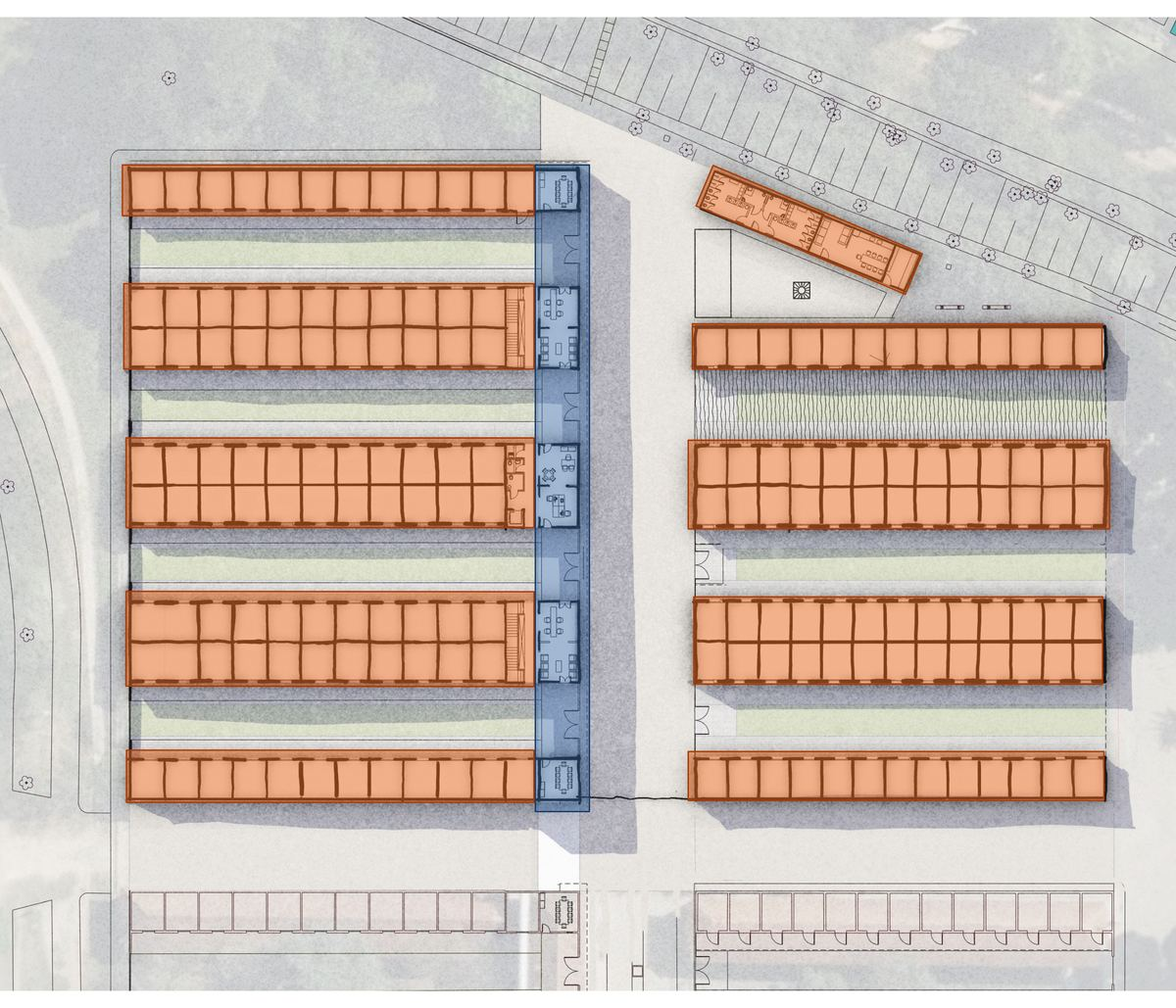
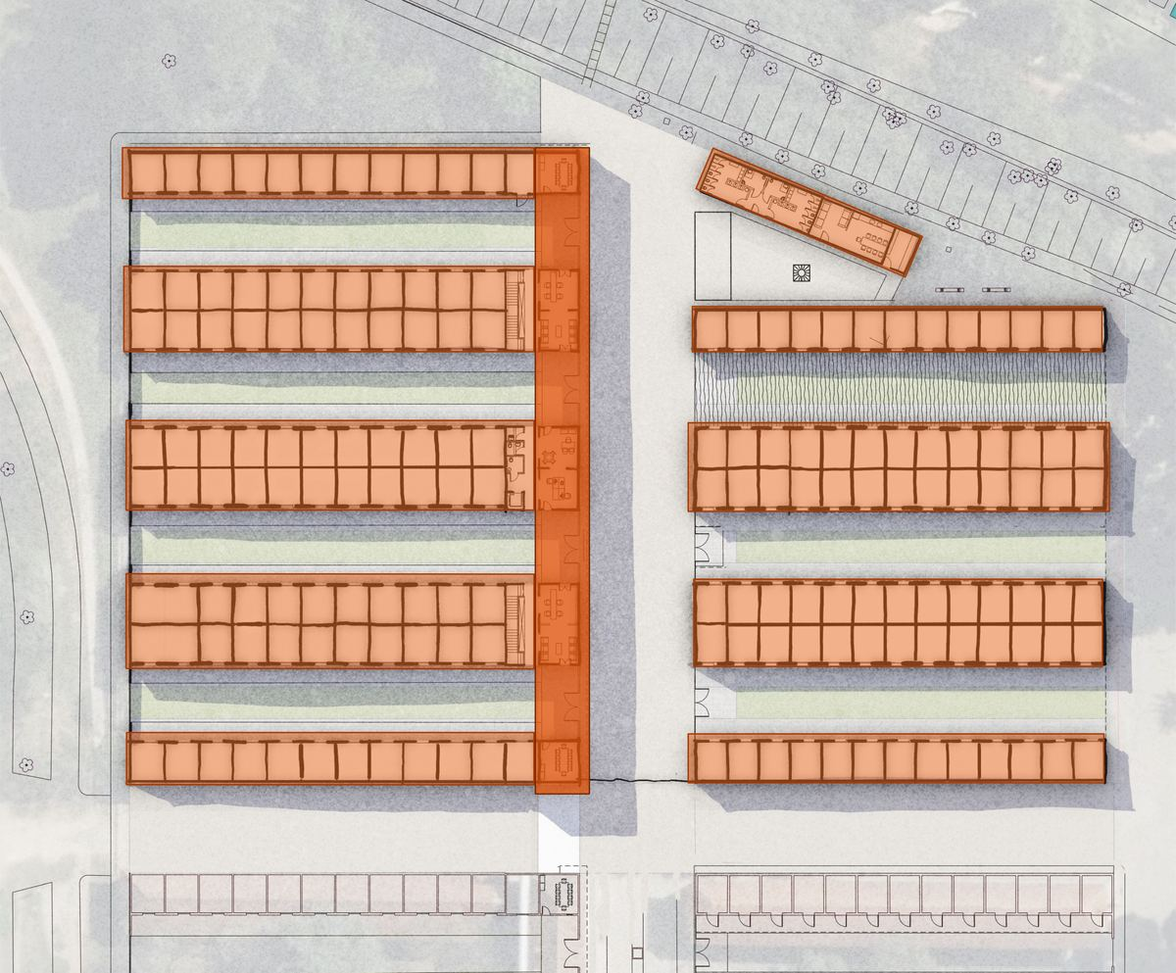
CAAB: um visor 3d so, confronto em duas etapas, capa renomeada
O earth-3d da localizacao SAI. Causa medida, nao suposta: com dois na
mesma peca o segundo nunca cria o `gmp-map-3d` — a Maps JS API carrega
uma vez por pagina e o segundo visor fica sem elemento, que e' o "o visor
3d nao abriu" que o Michel viu. O slide dos temas assume a identificacao
do lugar (kicker, nome, endereco e legenda do tombamento) e vira o unico.
O rotulo sobe quando ha temas: medido, ele terminava em 814 e a barra
comecava em 786.

Confronto, slide 15:
· entra em DUAS ETAPAS — TEA Oeste primeiro, depois a nossa proposta
· sai o rotulo "o projeto que nao avancou"; o lado que ficou sem rotulo
  mantem a linha reservada, senao as duas plantas deixam de comecar na
  mesma altura numa prancha que existe para comparar
· DOIS TOTAIS: a circulacao do Jockey e' descoberta e nao entra na area
  construida. `total` do gabarito passou a aceitar lista de pares, e so o
  ultimo leva o filete da marca
· sai a nota — o Michel explica verbalmente
· o veu de 4% do slot some quando ha planta: com `contain` ele virava
  duas faixas cinza ladeando o desenho
· segundo pavimento do Jockey passa de azul a laranja forte (#E0530A a
  78%), regerado do SVG, nao repintado no PNG

Capa: "TEA Chacara Jockey". A capa forca caixa baixa e comia a sigla —
`.sg` isenta o trecho, em qualquer gabarito.

Rabisco: a pastilha estava sem fundo porque `--tinta-85` nao existe (a
escala pula de 80 para 90) e o background invalido caiu fora. E a barra
[…]

diff --git a/centro-tea-butanta/apresentacao.html b/centro-tea-butanta/apresentacao.html
@@ -4,7 +4,7 @@
 <!-- robots.txt nao funciona em Pages de projeto: o buscador so le o da raiz
      do dominio. A meta tag e a unica protecao. Regra do runbook, 22/08. -->
 <meta name="robots" content="noindex, nofollow, noarchive">
-<title>centro de acolhimento ao autista</title>
+<title>TEA  Chácara Jockey</title>
 <!-- preconexão para os visores (earth-3d / modelo-3d): adianta DNS, TCP e
      TLS, nada mais. Só vale a pena em peça que tenha esses gabaritos —
      descomentar as três linhas nesse caso. Não é dependência: sem elas tudo
@@ -528,6 +528,10 @@ ol.trio .t{font-size:var(--fs-body);line-height:1.6}
 body.esc .conf .nm{color:var(--papel)}
 .conf .fig{flex:1;min-height:0;position:relative;border-radius:2px;
   background:color-mix(in srgb,var(--tinta) 4%,transparent)}
+/* ⚑ COM PLANTA, SEM FUNDO. O veu de 4% existe para dar corpo ao slot
+   vazio. Com a imagem dentro em `contain`, ele vira exatamente o que a
+   planta nao preenche — duas faixas cinza ladeando o desenho. */
+.conf .fig:has(img){background:none}
 .conf .fig img{position:absolute;inset:0;width:100%;height:100%;
   object-fit:contain;object-position:center}
 .conf .fig .vazio{position:absolute;inset:0;display:grid;place-items:center;
@@ -547,8 +551,15 @@ body.esc .conf .nm{color:var(--papel)}
   font-size:clamp(13px,1.08cqw,19px);color:var(--tinta);
   font-variant-numeric:tabular-nums;white-space:nowrap}
 body.esc .conf .qd .vv{color:var(--papel)}
-.conf .qd .tot{border-top:1.5px solid var(--primaria);border-bottom:0;
-  margin-top:clamp(2px,.3cqh,5px)}
+.conf .qd .tot{border-top:1px solid color-mix(in srgb,var(--tinta) 22%,transparent);
+  border-bottom:0;margin-top:clamp(2px,.3cqh,5px)}
+.conf .qd .tot.fecha{border-top:1.5px solid var(--primaria)}
+/* so o fechamento final vai para o vinho; o total intermediario fica no
+   peso do corpo, senao duas linhas disputam a mesma enfase. */
+.conf .qd .tot:not(.fecha) .rr{color:var(--soft);font-weight:500}
+.conf .qd .tot:not(.fecha) .vv{color:var(--tinta);font-weight:500;
+  font-size:clamp(13px,1.08cqw,19px)}
+body.esc .conf .qd .tot:not(.fecha) .vv{color:var(--papel)}
 .conf .qd .tot .rr{color:var(--primaria);font-weight:600}
 .conf .qd .tot .vv{color:var(--primaria);font-weight:600;
   font-size:clamp(15px,1.32cqw,24px)}
@@ -1050,6 +1061,13 @@ body.em-logo .chrome.topo .secao{display:inline}
    o titulo da prancha. Fechado o painel, o rotulo volta. */
 .g-earth-3d.com-painel .rotulo{opacity:0;pointer-events:none;
   transition:opacity .25s ease}
+/* ⚑ COM TEMAS, O ROTULO SOBE. Os dois nasceram no mesmo canto inferior
+   esquerdo e com o rotulo cheio — kicker, titulo, endereco e legenda — a
+   caixa descia por cima dos botoes. Aqui ele reserva a faixa da barra.
+   03/11/2026, depois de medir: rotulo terminava em 814 e a barra comecava
+   em 786 numa tela de 900. */
+.g-earth-3d:has(.temas) .rotulo{
+  bottom:calc(var(--bot) + clamp(4px,1.4cqh,22px) + clamp(50px,6.8cqh,88px))}
 /* O convite do veu atravessa o meio da cena e compete com o painel aberto.
    Some a opacidade mas NAO o pointer-events: o veu continua sendo quem
    captura o primeiro clique e liga `girando`. */
@@ -3440,10 +3458,15 @@ body.em-imagem .nav{-webkit-backdrop-filter:none;backdrop-filter:none}
 #mscapta{position:absolute;inset:0;z-index:40;display:none;cursor:crosshair;
   touch-action:none}
 body.rabisca #mscapta{display:block}
-#msferr{position:absolute;z-index:42;left:50%;transform:translateX(-50%);
-  bottom:calc(var(--bot) + clamp(8px,1.5cqh,24px));display:none;
+/* ⚑ A BARRA MORA NA FAIXA DO RODAPE, nao acima dela. Flutuando sobre a
+   prancha ela cobria conteudo — no `confronto` caiu em cima do quadro de
+   areas. A faixa `--bot` ja' e' territorio de controle, e o meio dela esta
+   livre: o nome do projeto fica a esquerda e a navegacao a direita.
+   `bottom` na metade da faixa + `translateY(50%)` centra a pastilha nela. */
+#msferr{position:absolute;z-index:42;left:50%;
+  bottom:calc(var(--bot) / 2);transform:translate(-50%,50%);display:none;
   align-items:center;gap:clamp(3px,.42cqw,7px);
-  background:var(--tinta-85);border-radius:999px;
+  background:var(--tinta-80);border-radius:999px;
   padding:clamp(4px,.45cqw,8px) clamp(6px,.6cqw,11px);
   box-shadow:0 3px 18px var(--tinta-35)}
 body.rabisca #msferr{display:flex}
@@ -3470,6 +3493,11 @@ body.rabisca #msrab{opacity:1;background:var(--papel-25)}
 #msrab svg{width:54%;height:54%;fill:none;stroke:currentColor;stroke-width:1.9;
   stroke-linecap:round;stroke-linejoin:round}
 @media (prefers-reduced-motion:reduce){#msferr button{transition:none}}
+
+/* ⚑ SIGLA DENTRO DE TITULO EM CAIXA BAIXA. A capa e alguns kickers forcam
+   `text-transform`, o que e' certo para palavra e errado para sigla: "TEA"
+   virava "tea". `.sg` isenta o trecho, e vale em qualquer gabarito. */
+.sg{text-transform:none !important}
 </style></head><body>
 <!-- #moldura mede a ÁREA SEGURA da tela, nunca a tela bruta: é o que impede
      o notch e a Dynamic Island de comerem canto de prancha.
@@ -4132,7 +4160,7 @@ const DECK=[
 {"g":"meia","sangra":1,"mosaico":1,"inst":1,"imgs":["img/obra-11.jpg","img/obra-14.jpg","img/obra-16.jpg","img/obra-17.jpg","img/obra-18.jpg","img/obra-21.jpg","img/obra-23.jpg","img/obra-28.jpg","img/obra-30.jpg","img/obra-32.jpg","img/obra-34.jpg","img/obra-40.jpg","img/obra-47.jpg","img/obra-49.jpg","img/obra-50.jpg","img/obra-55.jpg","img/obra-56.jpg","img/obra-57.jpg","img/obra-58.jpg","img/obra-59.jpg","img/obra-66.jpg","img/obra-67.jpg","img/obra-82.jpg"],"estados":[{"kick":"um pouco sobre o estúdio Sarasá","t":"setenta anos de ofício","serif":1,"lead":"Uma casa de ofício fundada em 1956, no Ipiranga, por um azulejista catalão — hoje na terceira geração.","manchete":1,"linha":[["1939","Nasce <mark>Gerardo Martin Sarasá<\/mark> em Arbúcias, Girona, entre o fim da Guerra Civil Espanhola e o começo da Segunda Guerra."],["1956","Chega ao Brasil e funda o <mark>Atelier Artístico Gerardo Sarasá<\/mark>, com especialidade em azulejaria e vitral."],["1970","Passa aos projetos de <mark>conservação e restauro<\/mark> do patrimônio edificado."],["1980","Antonio Luís e Marcelo Sarasá Martin assumem a casa, hoje na <mark>terceira geração<\/mark>."],["2002","No Mosteiro da Luz, é concebida a <mark>Zeladoria do Patrimônio Cultural<\/mark> como disciplina autônoma — conceituada em 2012 e registrada na Biblioteca Nacional em 2017."],["2022","É fundado o <mark>Instituto Sarasá de Arte, Cultura e Cidadania<\/mark>."]],"lk":1,"botao":{"t":"visite o nosso site","url":"https://estudiosarasa.com.br"}}]},
 {"g":"meia","sangra":1,"imgs":["img/sarasa-vitral.jpg","img/sarasa-ipiranga.jpg","img/sarasa-cine-sao-luiz.jpg","img/sarasa-mibio.jpg","img/sarasa-estacao-luz.jpg","img/sarasa-campos-novos.jpg","img/sarasa-olinda.jpg","img/sarasa-itu.jpg","img/sarasa-casa-artesao.jpg","img/sarasa-barra-grande.jpg"],"legs":["Vitral · conservação e restauro","Museu do Ipiranga · São Paulo, SP","Cine São Luiz · Recife, PE","MiBIO, Museu Interativo da Biodiversidade · Campo Grande, MS","Estação da Luz · São Paulo, SP","Fazenda Campos Novos · Cabo Frio, RJ","Sociedade Beneficente de Artistas e Operários de Olinda · Olinda, PE","Museu de Energia de Itu · Itu, SP","Casa do Artesão · Campo Grande, MS","Fortaleza da Barra Grande · Guarujá, SP"],"estados":[{"kick":"o que fazemos","t":"serviços","cap":"<p><b>Projetos<\/b>Conservação e restauro · adequação de uso · expografia.<\/p><p><b>Investigação<\/b>Prospecções · pesquisa técnico-científica · consultoria.<\/p><p><b>Ofícios<\/b>Vitral · azulejaria · argamassa e pintura tradicionais · modelação · marcenaria · cantaria.<\/p><p><b>Execução<\/b>Intervenções de conservação e restauro.<\/p><p><b>Transmissão<\/b>Oficinas · educação patrimonial · zeladoria.<\/p>","servicos":1,"serif":1,"lead":"Cinco frentes, da prospecção ao ofício executado na obra."}],"espelho":1},
 {"g":"viva","src":"../modulos/mapa-atuacao-sarasa.html","recarrega":1,"semtopo":1,"alt":"Mapa de atuação do Estúdio Sarasá: 35 imóveis em São Paulo e obras em nove estados","h2":"onde atuamos","cap":"abrindo o mapa de atuação"},
-{"g":"capa","capa":1,"esc":1,"t":"centro de acolhimento<br>ao autista","sub":"Reuso de conjunto tombado para o Centro Municipal da Pessoa com TEA.","metas":[["cliente","—"],["etapa","estudo preliminar"],["versão","estrutura R00"]],"kick":"BUTANTÃ · SÃO PAULO"},
+{"g":"capa","capa":1,"esc":1,"t":"<span class=\"sg\">TEA<\/span><br>Chácara Jockey","sub":"Reuso de conjunto tombado para o Centro Municipal da Pessoa com TEA.","metas":[["cliente","—"],["etapa","estudo preliminar"],["versão","estrutura R00"]],"kick":"BUTANTÃ · SÃO PAULO"},
 {"g":"sumario","t":"índice da apresentação","itens":[["01","introdução","Três círculos: o equipamento, o desejável e a história do lugar."],["02","o edifício existente","Localização, qualidades, desafios, tombamento — e a pergunta central."],["03","a proposta de intervenção","Vocação, fluxos, setorização e demolição, camada por camada."],["04","números","Áreas, superfícies de intervenção e ordem de grandeza."]]},
 {"g":"divisor","div":1,"terra":1,"fundo":1,"sec":"introdução","dn":"01","dt":"introdução","ds":"A proposta nasce no encontro de três coisas. Antes de mostrar o que está no meio, é preciso desenhar os três círculos."},
 {"g":"conceitos","kick":"o método do argumento","t":"três conceitos","itens":[{"q":"o equipamento","x":"O que a SMPED faz, o que já construiu e o que o termo de referência pede.","slot":"o Centro TEA já construído"},{"q":"o desejável","x":"O que a arquitetura sabe sobre espaço para pessoas no espectro.","slot":"referências projetuais"},{"q":"o patrimônio histórico","x":"O que este conjunto foi, e o papel que desempenhou na cidade.","slot":"imagem histórica do conjunto"}]},
@@ -4140,12 +4168,11 @@ const DECK=[
 {"g":"lista","largo":1,"kick":"círculo 02","t":"o que o espaço faz por quem é atendido","itens":[["01","<b>Gradiente sensorial.<\/b> O edifício se organiza por nível de estímulo, não por função administrativa."],["02","<b>Transição.<\/b> Entre o alto e o baixo estímulo existe um espaço que recalibra — não se passa de um ao outro por uma porta."],["03","<b>Refúgio.<\/b> Lugares de retirada distribuídos, ajustáveis por quem os usa."],["04","<b>Percurso previsível.<\/b> Sequência legível, sem bifurcação e sem retorno."],["05","<b>Sem bolha.<\/b> A escala inteira de estímulo dentro do edifício, para que se transite por ela."]]},
 {"g":"tempo","kick":"o lugar no tempo","cobre":640,"de":1925,"ate":2026,"items":[{"ano":"1930","src":"img/tempo-1930.jpg","ficha":"Levantamento Sara Brasil · 1930 · carta","t":"Sara Brasil: o sítio antes de tudo","cap":"Chácara rural na divisa do município. O córrego Charco Grande corta o terreno e a mata ocupa o que hoje é o parque. Não há uma construção sequer no perímetro."},{"ano":"1940","x":1940,"ficha":"Foto aérea · 1940 · a baixar","t":"Levantamento a incorporar","vazio":"Foto aérea 1940 · quadrícula FM5-019 · a baixar no GeoSampa"},{"ano":"1954","x":1954,"ficha":"Foto aérea · 1954 · a baixar","t":"Levantamento a incorporar","vazio":"Foto aérea 1954 · quadrícula FX03-173 · a baixar no GeoSampa"},{"ano":"s/d","x":1962,"src":"img/tempo-vasp.jpg","ficha":"Carta Vasp-Cruzeiro · <span class=\"pend\">sem data no metadado — confirmar no DPH<\/span>","t":"Vasp-Cruzeiro: a era hípica desenhada","cap":"A pista oval de treino e as duas fileiras de cocheiras aparecem com todos os módulos. É a única peça que registra o conjunto em pleno funcionamento — e a borda esquerda está cortada no fim do mosaico."},{"ano":"1988","src":"img/tempo-1988.jpg","ficha":"Folhas do Livro da Vegetação · 1988 · carta","t":"Livro da Vegetação: o miolo limpo","cap":"A carta registra a massa verde apenas no perímetro do conjunto. Entre os dois agrupamentos de edificações não há arborização mapeada. É o ponto de partida do argumento."},{"ano":"1996","x":1996,"ficha":"Foto aérea · 1994/1996 · a baixar","t":"Levantamento a incorporar","vazio":"Foto aérea 1994/1996 · a baixar no GeoSampa"},{"ano":"2001","x":2001,"ficha":"Foto aérea · 2000/2001 · a baixar","t":"Levantamento a incorporar","vazio":"Fotos aéreas 2000 e 2001 · a baixar no GeoSampa"},{"ano":"2004","src":"img/tempo-2004.jpg","ficha":"Ortofoto MDC · 2004 · 1:1.000","t":"A alameda ainda aberta","cap":"Dezesseis anos depois, a alameda central entre os dois agrupamentos continua livre. Telhados íntegros, perímetro arborizado, miolo sem nada."},{"ano":"2017","src":"img/tempo-2017.jpg","ficha":"Ortofoto PMD · 2017","t":"As primeiras árvores no miolo","cap":"Aqui começam a aparecer, esparsas, as árvores entre as fileiras. Nenhuma plantada por projeto: são espontâneas, nascidas da ausência de manejo depois do fim da atividade hípica."},{"ano":"2020","src":"img/tempo-2020.jpg","ficha":"Ortofoto · 2020 · 10 cm/px","t":"O miolo tomado","cap":"Em três anos a alameda fecha. As copas encostam nos telhados e passam a representar risco direto sobre o bem tombado. É o estado que o projeto encontra."}]},
 {"g":"divisor","div":2,"terra":1,"fundo":1,"sec":"o edifício","dn":"02","dt":"o edifício existente","ds":"Qualidades e desafios de um conjunto que já existe."},
-{"g":"earth-3d","lat":-23.599136,"lng":-46.744936,"alt":760,"kick":"o lugar","h2":"o Parque Chácara do Jockey","lead":"Rua Santa Crescência · Ferreira, Butantã · São Paulo","cap":"O conjunto da antiga sede do Jockey Club dentro do parque público. Tombado pela Resolução CONPRESP 53/2018 em três conjuntos — cavalariças, alojamento dos cavalariços e casa da administração. A massa arbórea que se vê é o dado que condiciona a implantação."},
 {"g":"cheia","src":"","h2":"localização","cap":"Planta do parque, com norte. Zoom na edificação existente no slide seguinte.","claro":1},
 {"g":"cheia","src":"","h2":"o conjunto edificado","cap":"Os braços longilíneos do conjunto preexistente.","claro":1},
-{"g":"earth-3d","lat":-23.599136,"lng":-46.744936,"alt":760,"compacto":1,"kick":"o lugar, de perto","h2":"o que este conjunto oferece","lead":"Três leituras sobre o mesmo lugar.","temas":[{"bt":"qualidades e oportunidades","t":"qualidades e oportunidades","itens":[["01","<b>Sequência pronta.<\/b> Os braços longilíneos são percurso linear e previsível, sem bifurcação."],["02","<b>Compartimentação pronta.<\/b> A malha de baias está na escala do atendimento em grupo pequeno."],["03","<b>Arvoredo maduro.<\/b> Estímulo natural é regulador, e não se planta em dois anos."],["04","<b>Endereço com história.<\/b> Um bem ocioso volta à vida pública."]]},{"bt":"desafios","t":"desafios","itens":[["01","<b>Geometria restritiva.<\/b> Espaços estreitos e alongados; na origem, longos corredores. Condiciona tudo que peça vão livre."],["02","<b>Arborização em posição de risco.<\/b> Exemplares encostados no beiral, com galhos sobre a estrutura do telhado. Risco de dano ao bem e de acidente."],["03","<b>Acústica.<\/b> Pé-direito alto, superfície dura e vão contínuo produzem reverberação longa — o risco sensorial mais sério do conjunto."]]},{"bt":"o que o tombamento permite","t":"a proteção como liberdade","itens":[["01","<b>A proteção recai sobre as fachadas.<\/b> As características arquitetônicas externas são o objeto do tombamento."],["02","<b>O interior está livre de obrigação de preservação.<\/b> A reorganização interna é possível — e necessária para gerar os salões amplos."],["03","<b>A área livre do parque dispensa análise prévia.<\/b> O que exige vão grande encontra lugar sem passar pelo rito."],["04","<b>O que se altera deixa testemunho.<\/b> A própria resolução exige preservar o traço do elemento original — é a base da intervenção legível."]]}]},
+{"g":"earth-3d","lat":-23.599136,"lng":-46.744936,"alt":760,"compacto":1,"kick":"o lugar","h2":"o Parque Chácara do Jockey","lead":"Rua Santa Crescência · Ferreira, Butantã · São Paulo","temas":[{"bt":"qualidades e oportunidades","t":"qualidades e oportunidades","itens":[["01","<b>Sequência pronta.<\/b> Os braços longilíneos são percurso linear e previsível, sem bifurcação."],["02","<b>Compartimentação pronta.<\/b> A malha de baias está na escala do atendimento em grupo pequeno."],["03","<b>Arvoredo maduro.<\/b> Estímulo natural é regulador, e não se planta em dois anos."],["04","<b>Endereço com história.<\/b> Um bem ocioso volta à vida pública."]]},{"bt":"desafios","t":"desafios","itens":[["01","<b>Geometria restritiva.<\/b> Espaços estreitos e alongados; na origem, longos corredores. Condiciona tudo que peça vão livre."],["02","<b>Arborização em posição de risco.<\/b> Exemplares encostados no beiral, com galhos sobre a estrutura do telhado. Risco de dano ao bem e de acidente."],["03","<b>Acústica.<\/b> Pé-direito alto, superfície dura e vão contínuo produzem reverberação longa — o risco sensorial mais sério do conjunto."]]},{"bt":"o que o tombamento permite","t":"a proteção como liberdade","itens":[["01","<b>A proteção recai sobre as fachadas.<\/b> As características arquitetônicas externas são o objeto do tombamento."],["02","<b>O interior está livre de obrigação de preservação.<\/b> A reorganização interna é possível — e necessária para gerar os salões amplos."],["03","<b>A área livre do parque dispensa análise prévia.<\/b> O que exige vão grande encontra lugar sem passar pelo rito."],["04","<b>O que se altera deixa testemunho.<\/b> A própria resolução exige preservar o traço do elemento original — é a base da intervenção legível."]]}],"cap":"Conjunto da antiga sede do Jockey Club, dentro do parque público. Tombado pela Resolução CONPRESP 53/2018 em três conjuntos."},
 {"g":"frase","esc":1,"kick":"a pergunta central","t":"este programa cabe<br>neste lugar?"},
-{"g":"confronto","kick":"a resposta, em área","t":"o mesmo programa, dois lugares","lados":[{"rot":"o projeto que não avançou","nm":"TEA Oeste · Butantã","src":"img/implantacao-tea-oeste.jpg","alt":"Implantação do TEA Oeste, com as áreas úteis destacadas","linhas":[["ambientes","2.556,55 m²"],["circulação","1.543,24 m²"]],"total":["área construída","4.099,79 m²"]},{"rot":"a nossa proposta","nm":"Chácara do Jockey","src":"img/implantacao-jockey.jpg","linhas":[["ambientes","3.311,07 m²"],["circulação","3.651,62 m²"]],"total":["área construída","6.962,69 m²"],"alt":"Implantação da proposta na Chácara do Jockey, com as áreas úteis e o segundo pavimento destacados"}],"nota":"O conjunto tombado entrega <b>6.962,69 m²<\/b> — acima dos 4.684 m² que o termo de referência pede. A circulação pesa porque os corredores <b>já existem<\/b>: são os braços longilíneos do conjunto, não metros projetados. E num programa TEA o corredor legível é recurso de orientação, não sobra."},
+{"g":"confronto","kick":"a resposta, em área","t":"o mesmo programa, dois lugares","lados":[{"nm":"TEA Oeste · Butantã","src":"img/implantacao-tea-oeste.jpg","alt":"Implantação do TEA Oeste, com as áreas úteis destacadas","linhas":[["ambientes","2.556,55 m²"],["circulação coberta","1.543,24 m²"]],"total":[["total","4.099,79 m²"],["total coberto","4.099,79 m²"]]},{"rot":"a nossa proposta","nm":"Chácara do Jockey","src":"img/implantacao-jockey.jpg","linhas":[["ambientes","3.311,07 m²"],["circulação descoberta","3.651,62 m²"]],"total":[["total","6.962,69 m²"],["total coberto","3.311,07 m²"]],"alt":"Implantação da proposta na Chácara do Jockey, com as áreas úteis e o segundo pavimento destacados em laranja"}],"etapas":1},
 {"g":"lista","largo":1,"kick":"a resposta","t":"cabe, e cumpre","itens":[["01","<b>Cabe em área.<\/b> O programa útil do modelo entra no conjunto existente."],["02","<b>Cumpre todos os papéis.<\/b> Atendimento, cultura, esporte, autonomia e acolhimento de famílias."],["03","<b>E ganha o que terreno vazio não dá.<\/b> Arvoredo maduro, escala construída e história."]]},
 {"g":"divisor","div":3,"terra":1,"fundo":1,"sec":"a proposta","dn":"03","dt":"a proposta de intervenção","ds":"A planta, camada por camada: do que o conjunto é hoje ao que ele passa a ser."},
 {"g":"sequencia","kick":"a proposta, passo a passo","items":[{"src":"img/evo-01.jpg","t":"situação atual","cap":""},{"src":"img/evo-02.jpg","t":"conflito de circulação dos vestiários","cap":""},{"src":"img/evo-03.jpg","t":"novo vestiário","cap":""},{"src":"img/evo-04.jpg","t":"análise da circulação","cap":""},{"src":"img/evo-05.jpg","t":"análise da circulação","cap":""},{"src":"img/evo-06.jpg","t":"análise da circulação","cap":""},{"src":"img/evo-07.jpg","t":"análise da circulação","cap":""},{"src":"img/evo-08.jpg","t":"acessos","cap":""},{"src":"img/evo-09.jpg","t":"cobertura de ligação","cap":"Três funções numa peça só: <b>marquise<\/b> para embarque e desembarque, <b>receptivo<\/b>, e <b>circulação coberta<\/b> entre os volumes."},{"src":"img/evo-10.jpg","t":"paisagismo","cap":""},{"src":"img/evo-11.jpg","t":"demolições","cap":"Abrem as novas circulações e os salões amplos."},{"src":"img/evo-12.jpg","t":"planta proposta","cap":""},{"src":"img/evo-13.jpg","t":"setor de atendimento","cap":"","cores":[["#B080F0","atendimento e atividades TEA"]]},{"src":"img/evo-14.jpg","t":"setor administrativo e de apoio","cap":"","cores":[["#B080F0","atendimento e atividades TEA"],["#E08030","administrativo e funcionários"],["#905040","apoio e serviços"]]},{"src":"img/evo-15.jpg","t":"setor de eventos e acolhimento","cap":"","cores":[["#B080F0","atendimento e atividades TEA"],["#E08030","administrativo e funcionários"],["#905040","apoio e serviços"],["#90A0C8","eventos: convenções e exposições"],["#A0D050","acolhimento de familiares"]]},{"src":"img/evo-16.jpg","t":"planta proposta","cap":"","cores":[["#B080F0","atendimento e atividades TEA"],["#E08030","administrativo e funcionários"],["#905040","apoio e serviços"],["#90A0C8","eventos: convenções e exposições"],["#A0D050","acolhimento de familiares"]]}],"sangra":1},
@@ -4332,16 +4359,27 @@ function tpl(s){
   /* `confronto`: duas implantacoes lado a lado, cada uma com rotulo, nome,
      figura e o quadro de areas. Ver o bloco CONFRONTO no CSS. */
   if(s.g==='confronto'){
-    const lados=(s.lados||[]).map(l=>{
+    const temRot=(s.lados||[]).some(l=>l.rot);
+    const lados=(s.lados||[]).map((l,i)=>{
       const fig = l.src
         ? `<img src="${IMG[l.src]||l.src}" alt="${(l.alt||l.nm||'').replace(/"/g,'&quot;')}">`
         : `<div class="vazio">${l.slot||'implantação a entrar'}</div>`;
+      /* ⚑ `total` aceita UM par ou uma LISTA de pares. 03/11/2026: a
+         circulacao do Jockey e' descoberta e nao entra na area construida,
+         entao o quadro passou a precisar de dois fechamentos — total e
+         total coberto — e so o ULTIMO leva o filete da marca. */
+      const tts = (l.total && Array.isArray(l.total[0])) ? l.total
+                : (l.total ? [l.total] : []);
       const qd = (l.linhas||[]).map(([r,v])=>
             `<div><span class="rr">${r}</span><span class="vv">${RS(v)}</span></div>`).join('')
-        + (l.total?`<div class="tot"><span class="rr">${l.total[0]}</span>`
-                   +`<span class="vv">${RS(l.total[1])}</span></div>`:'');
-      return `<div class="lado">`
-        + (l.rot?`<div class="rot">${l.rot}</div>`:'')
+        + tts.map((x,n)=>`<div class="tot${n===tts.length-1?' fecha':''}">`
+            +`<span class="rr">${x[0]}</span><span class="vv">${RS(x[1])}</span></div>`).join('');
+      return `<div class="lado${(s.etapas&&i)?' passo':''}">`
+        /* ⚑ SE UM LADO TEM ROTULO, TODOS RESERVAM A LINHA. Sem isso, tirar
+           o rotulo de um dos lados sobe o nome daquele lado e as duas
+           plantas deixam de comecar na mesma altura — numa prancha que
+           existe para comparar, desalinhar e' mentir. */
+        + (temRot?`<div class="rot">${l.rot||'&nbsp;'}</div>`:'')
         + (l.nm?`<div class="nm">${RS(l.nm)}</div>`:'')
         + `<figure class="fig">${fig}</figure>`
         + (qd?`<div class="qd">${qd}</div>`:'')

diff --git a/esqueleto/deck-esqueleto.html b/esqueleto/deck-esqueleto.html
@@ -512,6 +512,10 @@ ol.trio .t{font-size:var(--fs-body);line-height:1.6}
 body.esc .conf .nm{color:var(--papel)}
 .conf .fig{flex:1;min-height:0;position:relative;border-radius:2px;
   background:color-mix(in srgb,var(--tinta) 4%,transparent)}
+/* ⚑ COM PLANTA, SEM FUNDO. O veu de 4% existe para dar corpo ao slot
+   vazio. Com a imagem dentro em `contain`, ele vira exatamente o que a
+   planta nao preenche — duas faixas cinza ladeando o desenho. */
+.conf .fig:has(img){background:none}
 .conf .fig img{position:absolute;inset:0;width:100%;height:100%;
   object-fit:contain;object-position:center}
 .conf .fig .vazio{position:absolute;inset:0;display:grid;place-items:center;
@@ -531,8 +535,15 @@ body.esc .conf .nm{color:var(--papel)}
   font-size:clamp(13px,1.08cqw,19px);color:var(--tinta);
   font-variant-numeric:tabular-nums;white-space:nowrap}
 body.esc .conf .qd .vv{color:var(--papel)}
-.conf .qd .tot{border-top:1.5px solid var(--primaria);border-bottom:0;
-  margin-top:clamp(2px,.3cqh,5px)}
+.conf .qd .tot{border-top:1px solid color-mix(in srgb,var(--tinta) 22%,transparent);
+  border-bottom:0;margin-top:clamp(2px,.3cqh,5px)}
+.conf .qd .tot.fecha{border-top:1.5px solid var(--primaria)}
+/* so o fechamento final vai para o vinho; o total intermediario fica no
+   peso do corpo, senao duas linhas disputam a mesma enfase. */
+.conf .qd .tot:not(.fecha) .rr{color:var(--soft);font-weight:500}
+.conf .qd .tot:not(.fecha) .vv{color:var(--tinta);font-weight:500;
+  font-size:clamp(13px,1.08cqw,19px)}
+body.esc .conf .qd .tot:not(.fecha) .vv{color:var(--papel)}
 .conf .qd .tot .rr{color:var(--primaria);font-weight:600}
 .conf .qd .tot .vv{color:var(--primaria);font-weight:600;
   font-size:clamp(15px,1.32cqw,24px)}
@@ -1034,6 +1045,13 @@ body.em-logo .chrome.topo .secao{display:inline}
    o titulo da prancha. Fechado o painel, o rotulo volta. */
 .g-earth-3d.com-painel .rotulo{opacity:0;pointer-events:none;
   transition:opacity .25s ease}
+/* ⚑ COM TEMAS, O ROTULO SOBE. Os dois nasceram no mesmo canto inferior
+   esquerdo e com o rotulo cheio — kicker, titulo, endereco e legenda — a
+   caixa descia por cima dos botoes. Aqui ele reserva a faixa da barra.
+   03/11/2026, depois de medir: rotulo terminava em 814 e a barra comecava
+   em 786 numa tela de 900. */
+.g-earth-3d:has(.temas) .rotulo{
+  bottom:calc(var(--bot) + clamp(4px,1.4cqh,22px) + clamp(50px,6.8cqh,88px))}
 /* O convite do veu atravessa o meio da cena e compete com o painel aberto.
    Some a opacidade mas NAO o pointer-events: o veu continua sendo quem
    captura o primeiro clique e liga `girando`. */
@@ -3424,10 +3442,15 @@ body.em-imagem .nav{-webkit-backdrop-filter:none;backdrop-filter:none}
 #mscapta{position:absolute;inset:0;z-index:40;display:none;cursor:crosshair;
   touch-action:none}
 body.rabisca #mscapta{display:block}
-#msferr{position:absolute;z-index:42;left:50%;transform:translateX(-50%);
-  bottom:calc(var(--bot) + clamp(8px,1.5cqh,24px));display:none;
+/* ⚑ A BARRA MORA NA FAIXA DO RODAPE, nao acima dela. Flutuando sobre a
+   prancha ela cobria conteudo — no `confronto` caiu em cima do quadro de
+   areas. A faixa `--bot` ja' e' territorio de controle, e o meio dela esta
+   livre: o nome do projeto fica a esquerda e a navegacao a direita.
+   `bottom` na metade da faixa + `translateY(50%)` centra a pastilha nela. */
+#msferr{position:absolute;z-index:42;left:50%;
+  bottom:calc(var(--bot) / 2);transform:translate(-50%,50%);display:none;
   align-items:center;gap:clamp(3px,.42cqw,7px);
-  background:var(--tinta-85);border-radius:999px;
+  background:var(--tinta-80);border-radius:999px;
   padding:clamp(4px,.45cqw,8px) clamp(6px,.6cqw,11px);
   box-shadow:0 3px 18px var(--tinta-35)}
 body.rabisca #msferr{display:flex}
@@ -3454,6 +3477,11 @@ body.rabisca #msrab{opacity:1;background:var(--papel-25)}
 #msrab svg{width:54%;height:54%;fill:none;stroke:currentColor;stroke-width:1.9;
   stroke-linecap:round;stroke-linejoin:round}
 @media (prefers-reduced-motion:reduce){#msferr button{transition:none}}
+
+/* ⚑ SIGLA DENTRO DE TITULO EM CAIXA BAIXA. A capa e alguns kickers forcam
+   `text-transform`, o que e' certo para palavra e errado para sigla: "TEA"
+   virava "tea". `.sg` isenta o trecho, e vale em qualquer gabarito. */
+.sg{text-transform:none !important}
 </style></head><body>
 <!-- #moldura mede a ÁREA SEGURA da tela, nunca a tela bruta: é o que impede
      o notch e a Dynamic Island de comerem canto de prancha.
@@ -4342,16 +4370,27 @@ function tpl(s){
   /* `confronto`: duas implantacoes lado a lado, cada uma com rotulo, nome,
      figura e o quadro de areas. Ver o bloco CONFRONTO no CSS. */
   if(s.g==='confronto'){
-    const lados=(s.lados||[]).map(l=>{
+    const temRot=(s.lados||[]).some(l=>l.rot);
+    const lados=(s.lados||[]).map((l,i)=>{
       const fig = l.src
         ? `<img src="${IMG[l.src]||l.src}" alt="${(l.alt||l.nm||'').replace(/"/g,'&quot;')}">`
         : `<div class="vazio">${l.slot||'implantação a entrar'}</div>`;
+      /* ⚑ `total` aceita UM par ou uma LISTA de pares. 03/11/2026: a
+         circulacao do Jockey e' descoberta e nao entra na area construida,
+         entao o quadro passou a precisar de dois fechamentos — total e
+         total coberto — e so o ULTIMO leva o filete da marca. */
+      const tts = (l.total && Array.isArray(l.total[0])) ? l.total
+                : (l.total ? [l.total] : []);
       const qd = (l.linhas||[]).map(([r,v])=>
             `<div><span class="rr">${r}</span><span class="vv">${RS(v)}</span></div>`).join('')
-        + (l.total?`<div class="tot"><span class="rr">${l.total[0]}</span>`
-                   +`<span class="vv">${RS(l.total[1])}</span></div>`:'');
-      return `<div class="lado">`
-        + (l.rot?`<div class="rot">${l.rot}</div>`:'')
+        + tts.map((x,n)=>`<div class="tot${n===tts.length-1?' fecha':''}">`
+            +`<span class="rr">${x[0]}</span><span class="vv">${RS(x[1])}</span></div>`).join('');
+      return `<div class="lado${(s.etapas&&i)?' passo':''}">`
+        /* ⚑ SE UM LADO TEM ROTULO, TODOS RESERVAM A LINHA. Sem isso, tirar
+           o rotulo de um dos lados sobe o nome daquele lado e as duas
+           plantas deixam de comecar na mesma altura — numa prancha que
+           existe para comparar, desalinhar e' mentir. */
+        + (temRot?`<div class="rot">${l.rot||'&nbsp;'}</div>`:'')
         + (l.nm?`<div class="nm">${RS(l.nm)}</div>`:'')
         + `<figure class="fig">${fig}</figure>`
         + (qd?`<div class="qd">${qd}</div>`:'')
